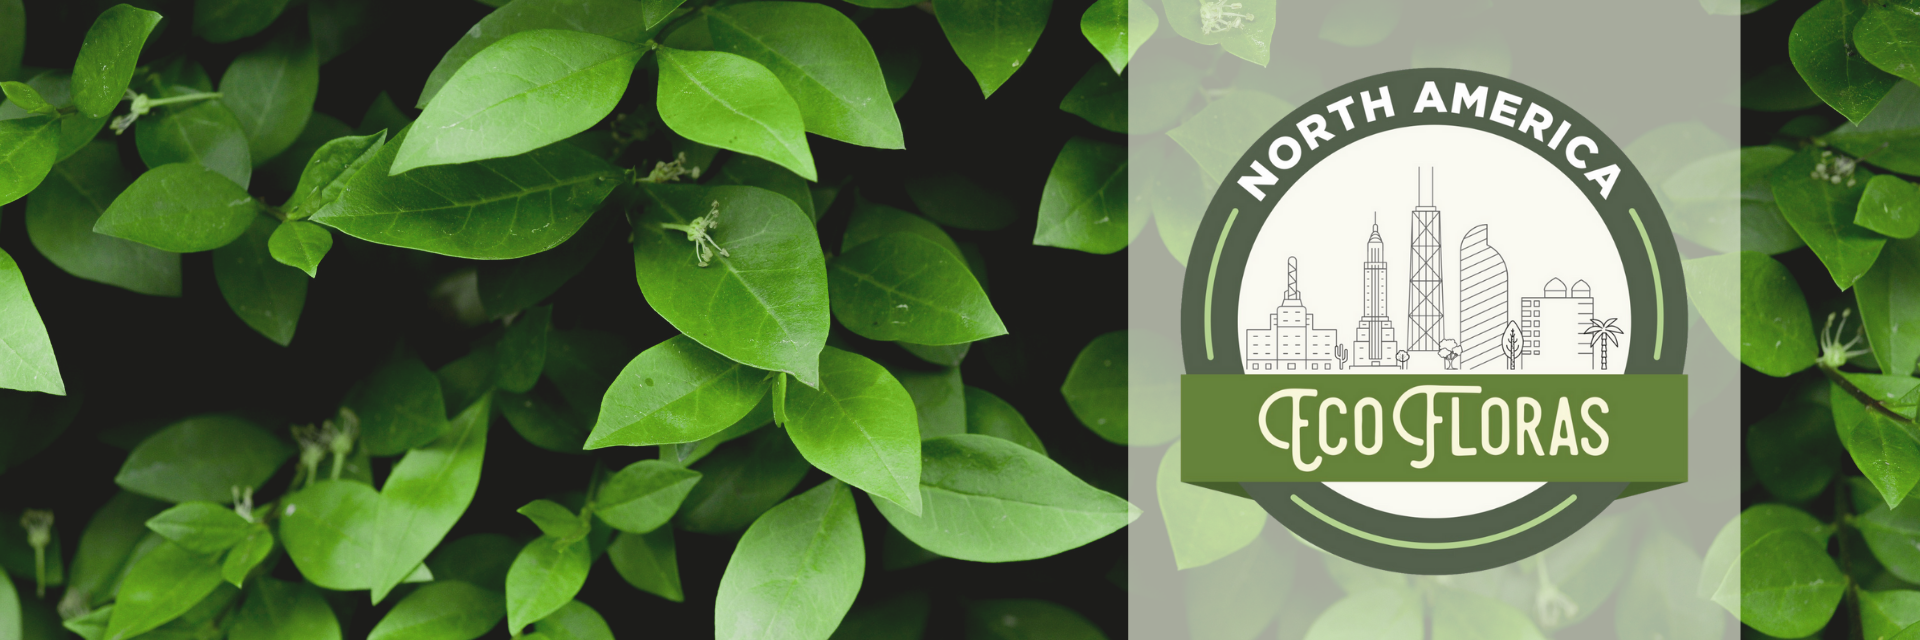
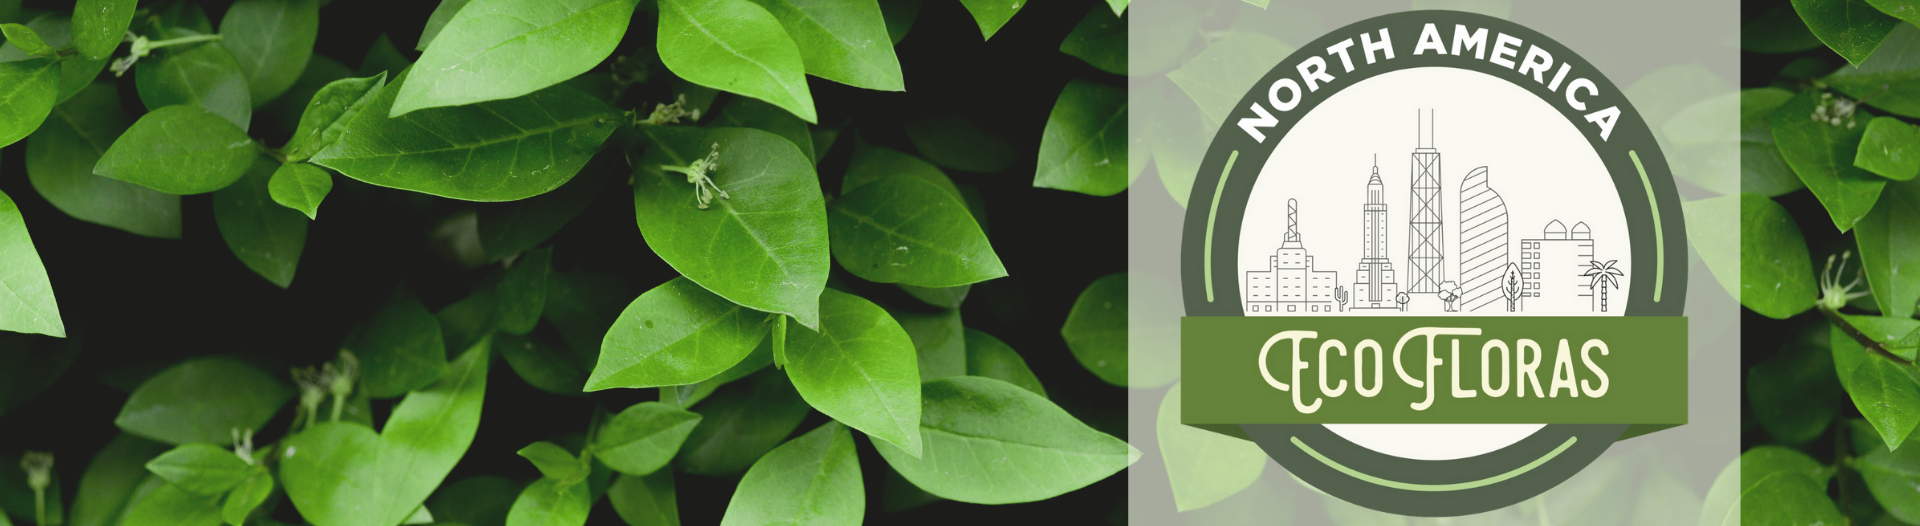
Custom styling for EcoFlora

diff --git a/css/symbiota/variables.css b/css/symbiota/variables.css
@@ -1,14 +1,14 @@
 /* Variables
    ========================================================================== */
 :root {
-  --header-bg-image: url("../../images/layout/jonathan-borba-Ui73wdp0wok-unsplash.jpg");
-  --header-bg-color: #2f6e5378; /** Transparent color if adding header bg-image **/
+  --header-bg-image: url("../../images/layout/EcoFlorasNA_Banner_2.png");
+  --header-bg-color: ; /** Transparent color if adding header bg-image **/
   --header-font-color: #fff;
   --brand-font-size: 1.5rem;
   --title-font-family: "Averia Serif Libre", serif;
   --logo-width: 120px;
-  --menu-top-bg-color: #1b3d2f;
-  --menu-font-size: 1rem;
+  --menu-top-bg-color: #53604c;
+  --menu-font-size: 0.8rem;
   --body-bg-color: #fafafa;
   --body-text-color: #000000;
   --body-font-size: 1rem;
@@ -19,7 +19,7 @@
   --darkest-color: #1b3d2f;
   --medium-color: #5a5a53;
   --light-color: #f2f0e9;
-  --bright-color: #b9d432;
+  --bright-color: #6a99da;
   --danger-color: #b31b1b;
   --max-innertext-width: 1024px;
 }

diff --git a/css/symbiota/customizations.css b/css/symbiota/customizations.css
@@ -2,4 +2,28 @@
 Place your CSS customizations here.
 This stylesheet is defined last and will override all previously loaded sheets. You may reference variables defined in variables.css 
  */
- 
+ .top-wrapper {
+    background-color: var(--header-bg-color);
+    display: grid;
+    grid-template-areas: "brand login";
+    grid-template-columns: 3fr 1fr;
+    align-items: center;
+    min-width: 0;
+    width: 100%;
+    padding: 10rem 0;
+  }
+
+  .top-wrapper {
+    min-width: 0;
+    max-width: 50%;
+  }
+
+  .button-secondary > a {
+    color: white;
+  }
+
+  .button-tertiary {
+    background-color: none;
+    border: 3px solid var(--bright-color);
+    padding: 0.5rem 0.9rem;
+  }

diff --git a/includes/header_old.php b/includes/header_old.php
@@ -1,71 +1,59 @@
-<?php
-if($LANG_TAG == 'en' || !file_exists($SERVER_ROOT.'/content/lang/templates/header.' . $LANG_TAG . '.php'))
-	include_once($SERVER_ROOT . '/content/lang/templates/header.en.php');
-else include_once($SERVER_ROOT . '/content/lang/templates/header.' . $LANG_TAG . '.php');
-$SHOULD_USE_HARVESTPARAMS = $SHOULD_USE_HARVESTPARAMS ?? false;
-$collectionSearchPage = $SHOULD_USE_HARVESTPARAMS ? '/collections/index.php' : '/collections/search/index.php';
-?>
-<div class="header-wrapper">
-	<header>
-		<div class="top-wrapper">
-			<a class="screen-reader-only" href="#end-nav"><?= $LANG['H_SKIP_NAV'] ?></a>
-			<nav class="top-login" aria-label="horizontal-nav">
-				<?php
-				if ($USER_DISPLAY_NAME) {
-					?>
-					<div class="welcome-text bottom-breathing-room-rel">
-						<?= $LANG['H_WELCOME'] . ' ' . $USER_DISPLAY_NAME ?>!
+<script>
+	if (top.frames.length!=0)
+  		top.location=self.document.location;
+	</script>
+	<table id="maintable" cellspacing="0">
+		<tr>
+			<td id="header" colspan="3">
+				<div style="clear:both;">
+					<div style="clear:both;">
+						<img style="width:100%" src="<?php echo $CLIENT_ROOT; ?>/images/layout/EcoFlorasNA_Banner_2.png" />
 					</div>
-					<span style="white-space: nowrap;" class="button button-tertiary bottom-breathing-room-rel">
-						<a href="<?= $CLIENT_ROOT ?>/profile/viewprofile.php"><?= $LANG['H_MY_PROFILE'] ?></a>
-					</span>
-					<span style="white-space: nowrap;" class="button button-secondary bottom-breathing-room-rel">
-						<a href="<?= $CLIENT_ROOT ?>/profile/index.php?submit=logout"><?= $LANG['H_LOGOUT'] ?></a>
-					</span>
-					<?php
-				} else {
-					?>
-					<span class="button button-secondary">
-						<a href="<?= $CLIENT_ROOT . "/profile/index.php?refurl=" . htmlspecialchars($_SERVER['SCRIPT_NAME'], ENT_COMPAT | ENT_HTML401 | ENT_SUBSTITUTE) . "?" . htmlspecialchars($_SERVER['QUERY_STRING'], ENT_QUOTES); ?>">
-							<?= $LANG['H_LOGIN'] ?>
-						</a>
-					</span>
-					<?php
-				}
-				?>
-			</nav>
-			<!--
-			<div class="top-brand">
-				<a href="<?= $CLIENT_ROOT ?>">
-					<div class="image-container">
-						<img src="<?= $CLIENT_ROOT ?>/images/layout/logo_symbiota.png" alt="Symbiota logo">
-					</div>
-				</a>
-
-				<div class="brand-name">
-					<h1></h1>
-					<h2></h2>
 				</div>
-			</div>
-			-->
-		</div>
-		<div class="menu-wrapper">
-			<!-- Hamburger icon -->
-			<input class="side-menu" type="checkbox" id="side-menu" name="side-menu" />
-			<label class="hamb hamb-line hamb-label" for="side-menu" tabindex="0">☰</label>
-			<!-- Menu -->
-			<nav class="top-menu" aria-label="hamburger-nav">
-				<ul class="menu">
+			<div id="top_navbar">
+				<div id="right_navbarlinks">
+					<?php
+					if($USER_DISPLAY_NAME){
+						?>
+						<span style="">
+							Welcome <?php echo $USER_DISPLAY_NAME; ?>!
+						</span>
+						<span style="margin-left:5px;">
+							<a href="<?php echo $CLIENT_ROOT; ?>/profile/viewprofile.php">My Profile</a>
+						</span>
+						<span style="margin-left:5px;">
+							<a href="<?php echo $CLIENT_ROOT; ?>/profile/index.php?submit=logout">Logout</a>
+						</span>
+						<?php
+					}
+					else{
+						?>
+						<span style="">
+							<a href="<?php echo $CLIENT_ROOT.'/profile/index.php?refurl='.$_SERVER['SCRIPT_NAME'].'?'.htmlspecialchars($_SERVER['QUERY_STRING'], ENT_QUOTES); ?>">
+								Log In
+							</a>
+						</span>
+						<span style="margin-left:5px;">
+							<a href="<?php echo $CLIENT_ROOT; ?>/profile/newprofile.php">
+								New Account
+							</a>
+						</span>
+						<?php
+					}
+					?>
+					<span style="margin-left:5px;margin-right:5px;">
+						<a href='<?php echo $CLIENT_ROOT; ?>/sitemap.php'>Sitemap</a>
+					</span>
+				</div>
+				<ul id="hor_dropdown">
 					<li>
-						<a href="<?= $CLIENT_ROOT ?>/index.php">
-							<?= $LANG['H_HOME'] ?>
-						</a>
+						<a href="<?php echo $CLIENT_ROOT; ?>/index.php" >Home</a>
 					</li>
 					<li>
 						<a href="#" >Search</a>
 						<ul>
 							<li>
-								<a href="<?php echo $CLIENT_ROOT; ?>/collections/search/index.php" >Search Collections</a>
+								<a href="<?php echo $CLIENT_ROOT; ?>/collections/index.php" >Search Collections</a>
 							</li>
 							<li>
 								<a href="<?php echo $CLIENT_ROOT; ?>/collections/map/mapinterface.php" target="_blank">Map Search</a>
@@ -139,7 +127,6 @@ $collectionSearchPage = $SHOULD_USE_HARVESTPARAMS ? '/collections/index.php' : '
 								<a href="<?php echo $CLIENT_ROOT; ?>/checklists/dynamicmap.php?interface=key&lat=40.75&long=-73.99&zoom=10" >Dynamic Key</a>
 							</li>
 						</ul>
-					</li>
 					<li>
 						<a href="#" >Marie Selby Botanical Gardens</a>
 						<ul>
@@ -156,25 +143,9 @@ $collectionSearchPage = $SHOULD_USE_HARVESTPARAMS ? '/collections/index.php' : '
 								<a href="<?php echo $CLIENT_ROOT; ?>/checklists/dynamicmap.php?interface=key&lat=27.32&long=-82.34&zoom=9" >Dynamic Key</a>
 								</li>
 						</ul>
-					</li>
-					<li>
-						<a href='<?= $CLIENT_ROOT ?>/sitemap.php'>
-							<?= $LANG['H_SITEMAP'] ?>
-						</a>
-					</li>
-					<!--
-					<li id="lang-select-li">
-						<label for="language-selection"><?= $LANG['H_SELECT_LANGUAGE'] ?>: </label>
-						<select oninput="setLanguage(this)" id="language-selection" name="language-selection">
-							<option value="en">English</option>
-							<option value="es" <?= ($LANG_TAG=='es'?'SELECTED':'') ?>>Español</option>
-							<option value="fr" <?= ($LANG_TAG=='fr'?'SELECTED':'') ?>>Français</option>
-						</select>
-					</li>
-					-->
-				</ul>
-			</nav>
-		</div>
-		<div id="end-nav"></div>
-	</header>
-</div>
+					</ul>
+				</div>
+			</td>
+		</tr>
+		<tr>
+			<td id='middlecenter'  colspan="3">

diff --git a/index.php b/index.php
@@ -1,9 +1,11 @@
 <?php
 include_once('config/symbini.php');
-include_once('content/lang/index.'.$LANG_TAG.'.php');
-header("Content-Type: text/html; charset=".$CHARSET);
+if($LANG_TAG == 'en' || !file_exists($SERVER_ROOT.'/content/lang/templates/index.'.$LANG_TAG.'.php')) include_once($SERVER_ROOT.'/content/lang/templates/index.en.php');
+else include_once($SERVER_ROOT.'/content/lang/templates/index.'.$LANG_TAG.'.php');
+header('Content-Type: text/html; charset=' . $CHARSET);
 ?>
-<html>
+<!DOCTYPE html>
+<html lang="<?php echo $LANG_TAG ?>">
 <head>
 	<title><?php echo $DEFAULT_TITLE; ?> Home</title>
 	<?php
@@ -12,8 +14,8 @@ header("Content-Type: text/html; charset=".$CHARSET);
 	include_once($SERVER_ROOT.'/includes/googleanalytics.php');
 	?>
 	<link href="css/quicksearch.css" type="text/css" rel="Stylesheet" />
-	<script src="js/jquery-3.2.1.min.js" type="text/javascript"></script>
-	<script src="js/jquery-ui-1.12.1/jquery-ui.min.js" type="text/javascript"></script>
+	<script src="js/jquery-3.7.1.min.js" type="text/javascript"></script>
+	<script src="js/jquery-ui.min.js" type="text/javascript"></script>
 	<script src="js/symb/api.taxonomy.taxasuggest.js" type="text/javascript"></script>
 	<script src="js/jquery.slides.js"></script>
 </head>
@@ -136,7 +138,7 @@ header("Content-Type: text/html; charset=".$CHARSET);
 			</script>			</div>
 		</div>
 		<h1>Welcome to the EcoFloras of North America!</h1>
-		<div style="padding: 0px 10px; font-size:120%">
+		<div>
 			<p>EcoFlora is a participatory science project that aims to document, understand, and conserve urban biodiversity. First launched in 2017 at the New York Botanical Garden, the program expanded in 2020 to four additional partner gardens: Desert Botanical Garden, Denver Botanic Gardens, Marie Selby Botanical Gardens and the Chicago Botanic Garden. Visit the "Project Information" pages on each projects' tabs to learn more about each EcoFlora project!</p>
 			<p>The projects combine existing knowledge from herbaria and libraries with real-time observations of plants and their ecological partners, made using iNaturalist. These data can then be combined to learn more about the past, present, and future of urban biodiversity.</p>
 		</div>

diff --git a/includes/footer.php b/includes/footer.php
@@ -1,15 +1,19 @@
-<tr>
-	<td id="footer" colspan="3">
-		<hr>
-		<p style="text-align:center;">
-			<a href="https://www.imls.gov"target="_blank"><img src="<?php echo $CLIENT_ROOT; ?>/images/layout/imlslogo.jpg" style="height:75px;"/></a>
-			<a href="https://biokic.asu.edu"target="_blank"><img src="<?php echo $CLIENT_ROOT; ?>/images/layout/logo-asu-biokic.jpg" style="height:25px;"/> </a>
-		</p>
-		<div style="text-align:center;margin-bottom:15px">	
-			This project was made possible in part by the Institute of Museum and Library Services [MG-70-19-0057-19].
-		</div>
-		<div style="text-align:center;">	
-			Powered by <a href="https://symbiota.org/" target="_blank">Symbiota</a>
-		</div>
-	</td>
-</tr>
+<footer>
+	<div class="logo-gallery">
+		<?php
+		//include($SERVER_ROOT . '/accessibility/module.php');
+		?>
+		<a href="https://www.imls.gov" target="_blank" aria-label="<?= "Visit IMLS site" ?>">
+			<img src="<?= $CLIENT_ROOT; ?>/images/layout/imlslogo.jpg" alt="Institute for Museum and Library Services" />
+		</a>
+		<a href="https://biokic.asu.edu" target="_blank" title="<?= $LANG['F_BIOKIC'] ?>" aria-label="Visit BioKIC website">
+			<img src="<?= $CLIENT_ROOT; ?>/images/layout/logo-asu-biokic.png"  alt="<?= $LANG['F_BIOKIC_LOGO'] ?>" />
+		</a>
+	</div>
+	<p>
+		This project was made possible in part by the Institute of Museum and Library Services [MG-70-19-0057-19].
+	</p>
+	<p>
+		<?= $LANG['F_POWERED_BY'] ?> <a href="https://symbiota.org/" target="_blank">Symbiota</a>.
+	</p>
+</footer>

diff --git a/includes/head.php b/includes/head.php
@@ -10,6 +10,12 @@
 
 //$CUSTOM_CSS_PATH = '/css/symb/custom';
 ?>
-<link href="<?php echo $CLIENT_ROOT; ?>/css/jquery-ui.css" type="text/css" rel="stylesheet">
-<link href="<?php echo $CLIENT_ROOT; ?>/css/base.css?ver=1" type="text/css" rel="stylesheet">
-<link href="<?php echo $CLIENT_ROOT; ?>/css/symb/main.css?ver=1" type="text/css" rel="stylesheet">
+<meta name="viewport" content="width=device-width, initial-scale=1.0">
+
+<!-- Symbiota styles -->
+<link href="<?= $CSS_BASE_PATH ?>/symbiota/header.css?ver=<?= $CSS_VERSION ?>" type="text/css" rel="stylesheet">
+<link href="<?= $CSS_BASE_PATH ?>/symbiota/footer.css?ver=<?= $CSS_VERSION ?>" type="text/css" rel="stylesheet">
+<link href="<?= $CSS_BASE_PATH ?>/symbiota/main.css?ver=<?= $CSS_VERSION ?>" type="text/css" rel="stylesheet">
+<link href="<?= $CSS_BASE_PATH ?>/symbiota/customizations.css?ver=<?= $CSS_VERSION ?>" type="text/css" rel="stylesheet">
+
+<script src="<?= $CLIENT_ROOT ?>/js/symb/lang.js" type="text/javascript"></script>
